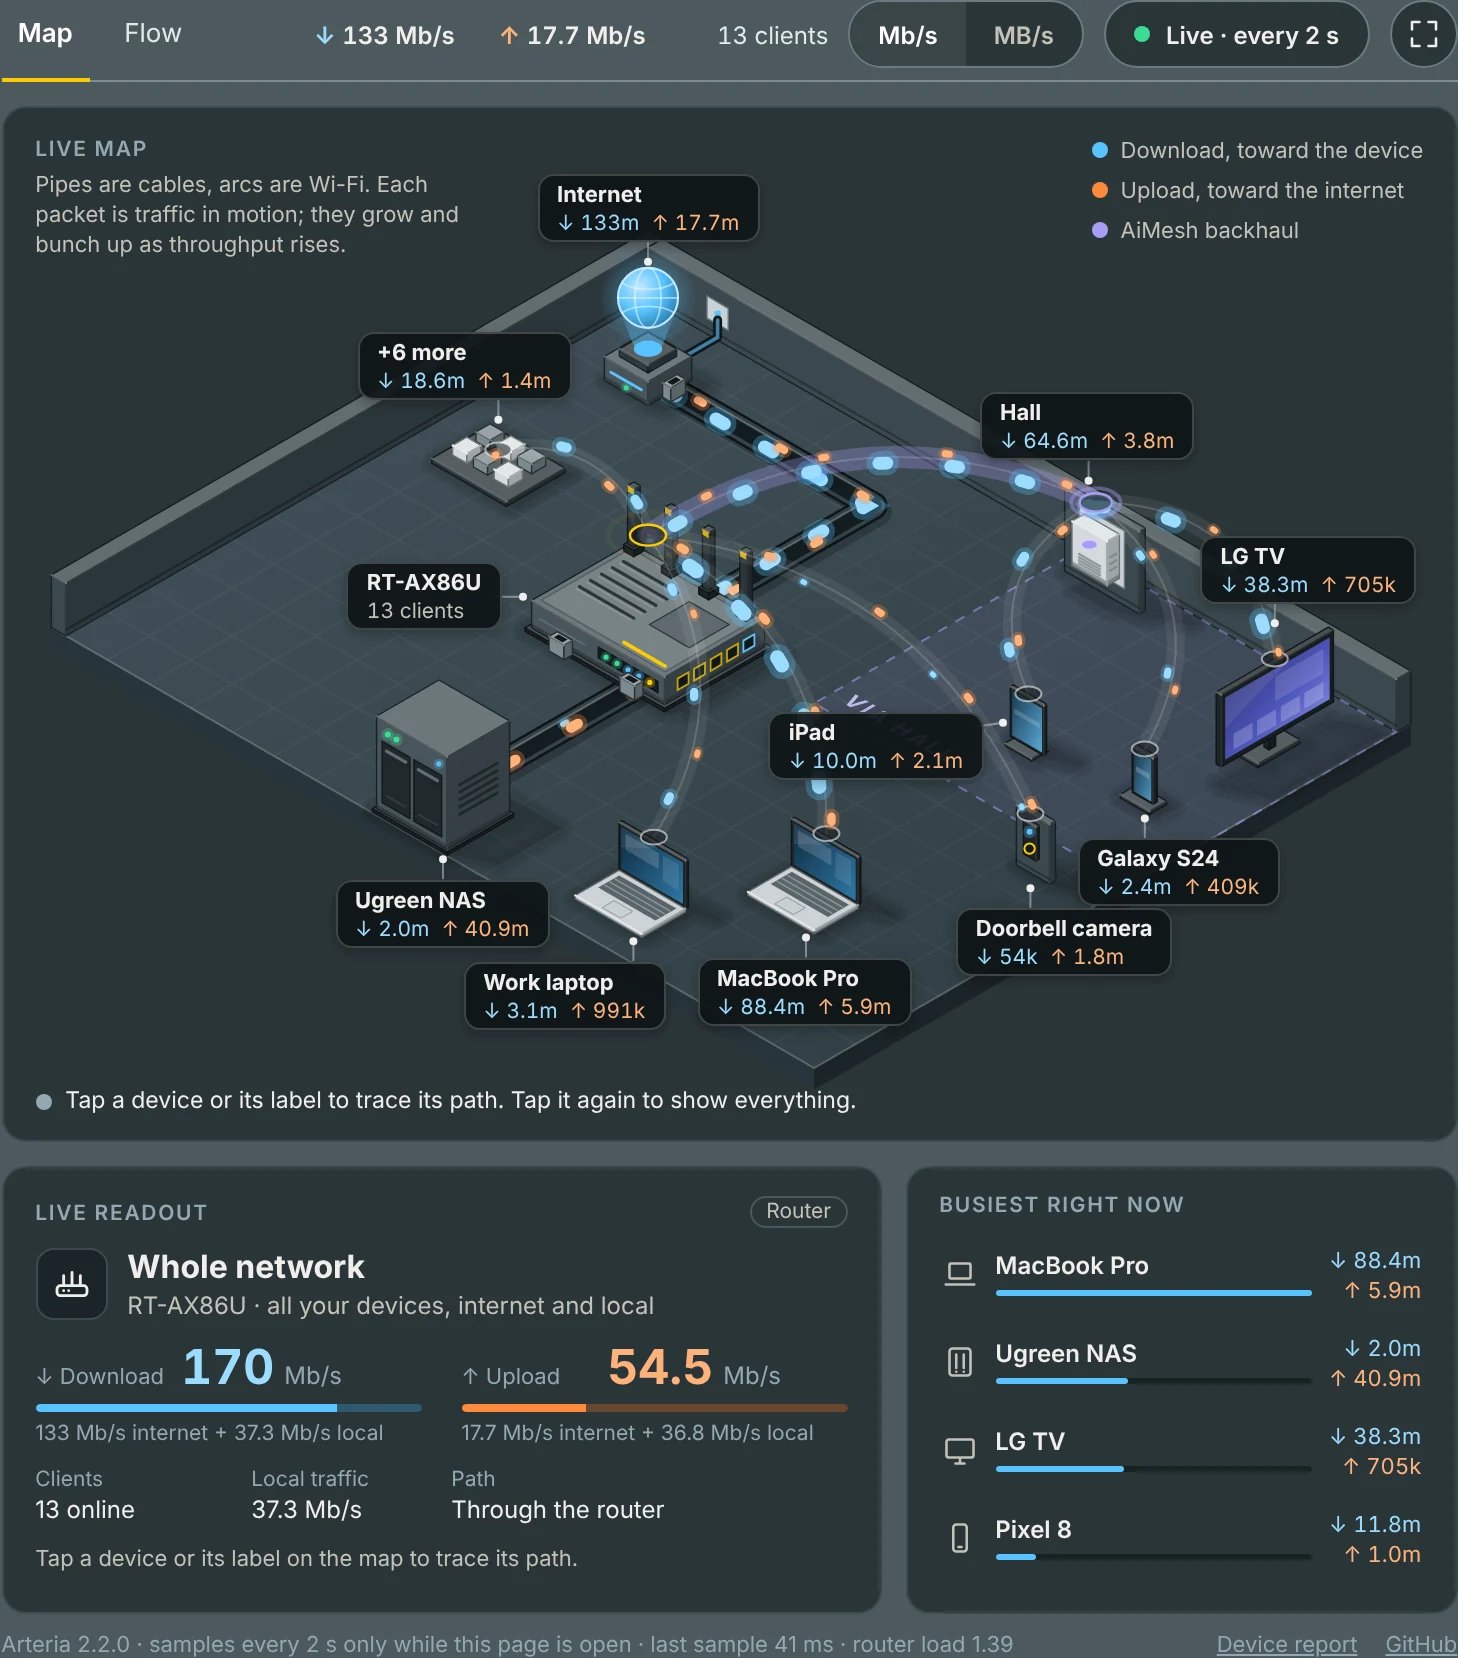
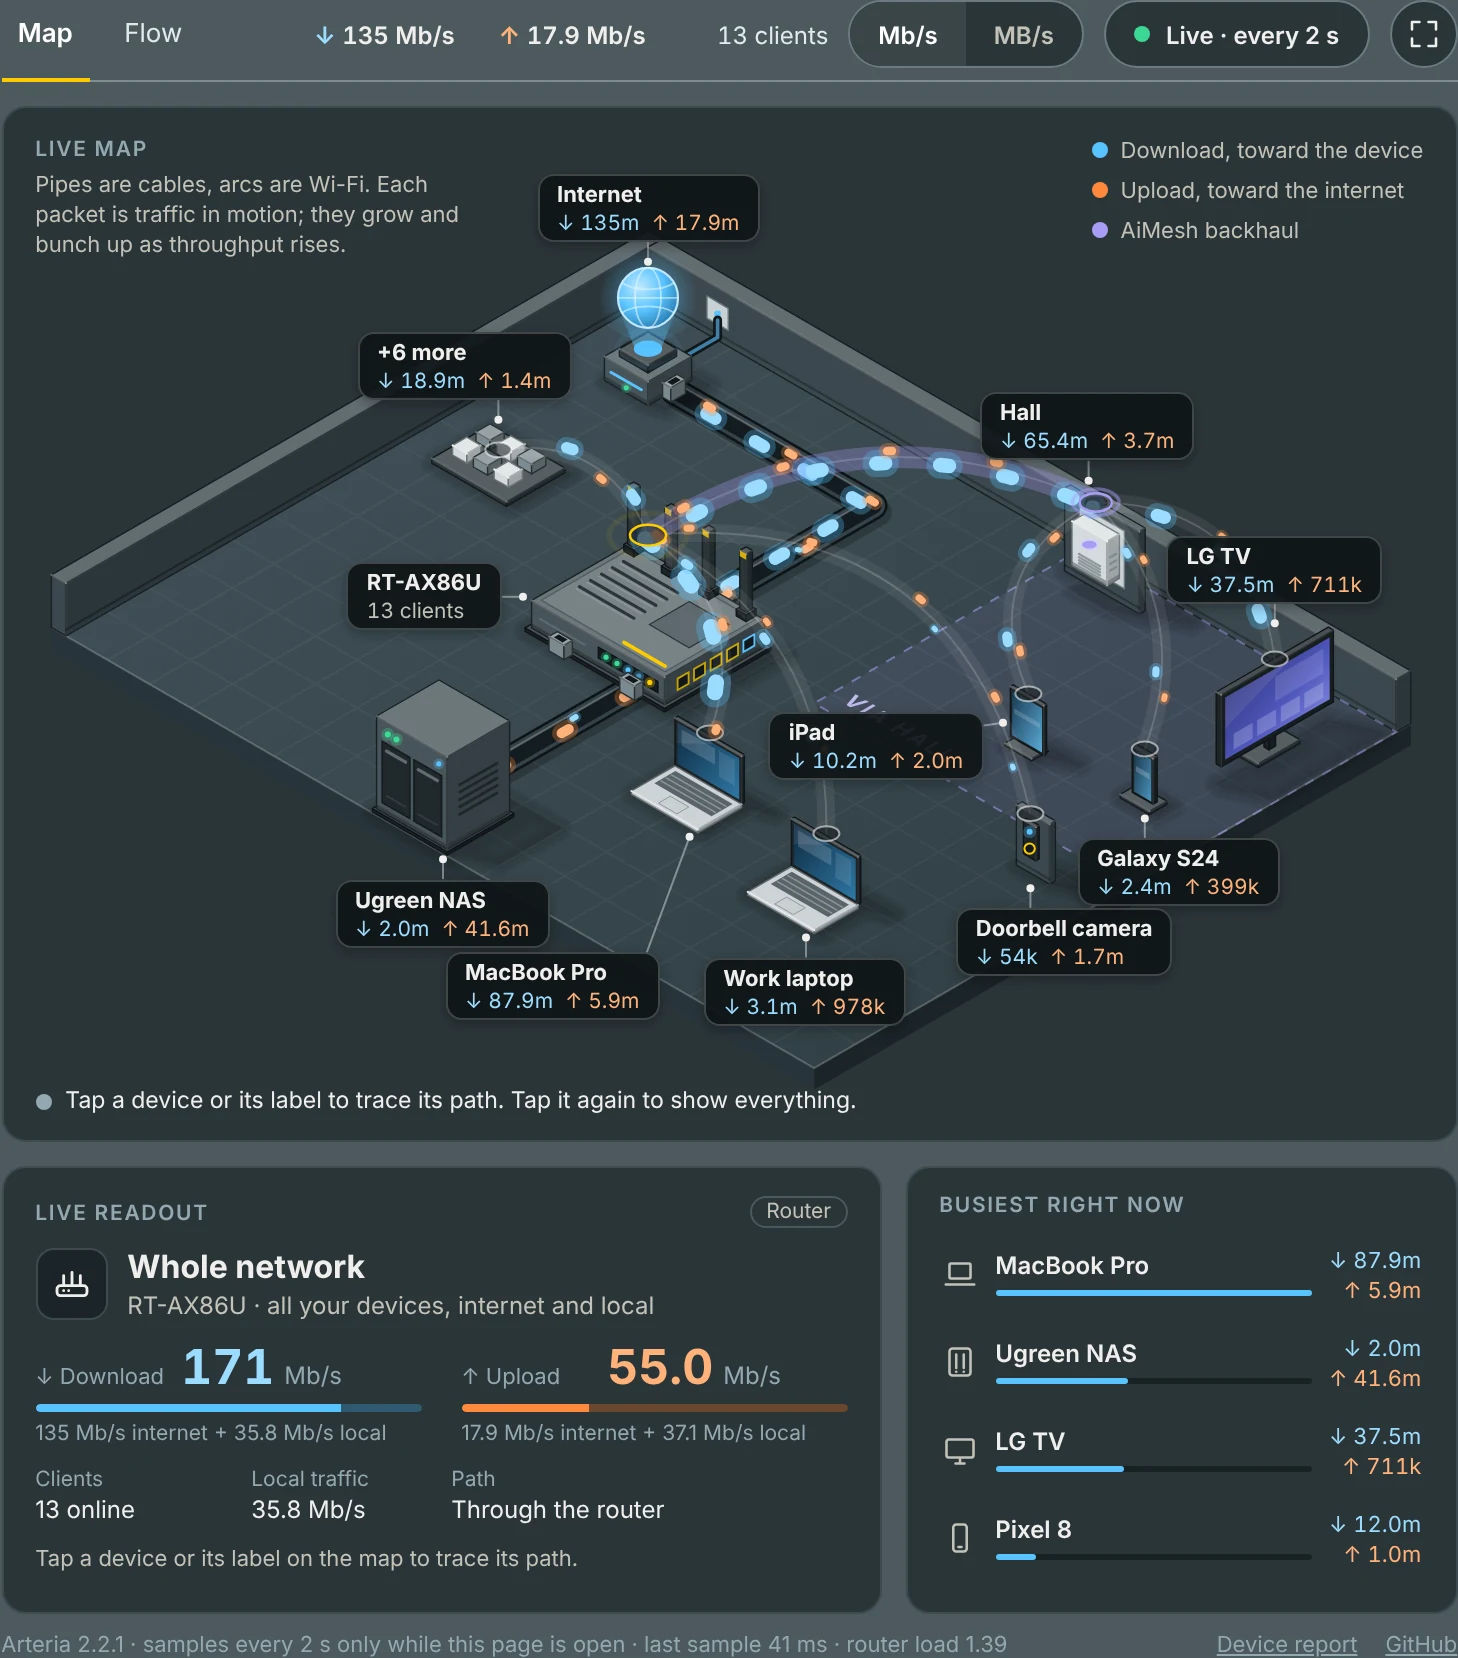
Docs: the README's pictures redrawn for 2.2.1
The screenshots of the map (the page's view, a TV traced, the +N more list
with a phone's Details, renaming, the expanded view zoomed and whole), the
README demo and the forum GIF show 2.2.1's map: room round each device,
labels off other devices' traffic, the internet in the expanded view's top
corner. All from preview.py's made-up data, with screenshots.py and
demo-gif.py. Flow and the device gallery don't change. README: labels keep
off other devices' traffic, and the map packs devices closer only to show
more of them.

Claude-Session: https://claude.ai/code/session_01VjX2uxd3MpU6CZq6psEPw5

diff --git a/README.md b/README.md
@@ -13,7 +13,7 @@ It only works while you're looking: sampling starts when you open its page and s
 
 An **Arteria** tab in **Traffic Analyzer** (or the last tab of **Network Tools** on routers without it), with:
 
-- **Map**: an isometric drawing of your network. Cables are pipes (to a node on a wired backhaul and its wired devices too), Wi-Fi links are arcs, and each moving packet is traffic: blue toward the device (download), orange toward the internet (upload), violet the AiMesh backhaul. Packets grow and bunch up as throughput rises. Devices behind a node stand in its zone, devices of a kind stand together (bulbs by bulbs, TVs by TVs), no two drawings overlap, and each label sits right next to its device. When a zone is full, the rest wait on a *+N more* tray, which opens a list; a busy device comes off it, but traffic never moves a device that is already on the map. The map has room for two nodes, three in the expanded view: with more, the busiest get a zone (when none is much busier, the ones with the most devices), and the tray names the others (*+1 node*), with their devices in its list. Flow shows every node.
+- **Map**: an isometric drawing of your network. Cables are pipes (to a node on a wired backhaul and its wired devices too), Wi-Fi links are arcs, and each moving packet is traffic: blue toward the device (download), orange toward the internet (upload), violet the AiMesh backhaul. Packets grow and bunch up as throughput rises. Devices behind a node stand in its zone, devices of a kind stand together (bulbs by bulbs, TVs by TVs), no two drawings overlap, and each label sits right next to its device, off other devices' traffic. The map leaves room round each device when it can, and packs them closer only to show more of them. When a zone is full, the rest wait on a *+N more* tray, which opens a list; a busy device comes off it, but traffic never moves a device that is already on the map. The map has room for two nodes, three in the expanded view: with more, the busiest get a zone (when none is much busier, the ones with the most devices), and the tray names the others (*+1 node*), with their devices in its list. Flow shows every node.
 - **Flow**: a Sankey "river" from the internet (and traffic between your own devices) through the router, each band, port and node, to every device, for download or upload.
 - **Trace any device**: tap it and everything else dims. The readout shows its rates, share, signal, link rate and path (*RT-AX86U → Hall → LG TV*), and **Details** shows its IP and MAC, host name, maker, system, Wi-Fi standard, connection time, IPv6 and DHCP lease.
 - **Rename it right there**: the pencil after its name opens a field; the icon shows what the new name will make it while you type. The name goes into the router's own client list, so the router shows it too. See [Devices](#devices).
